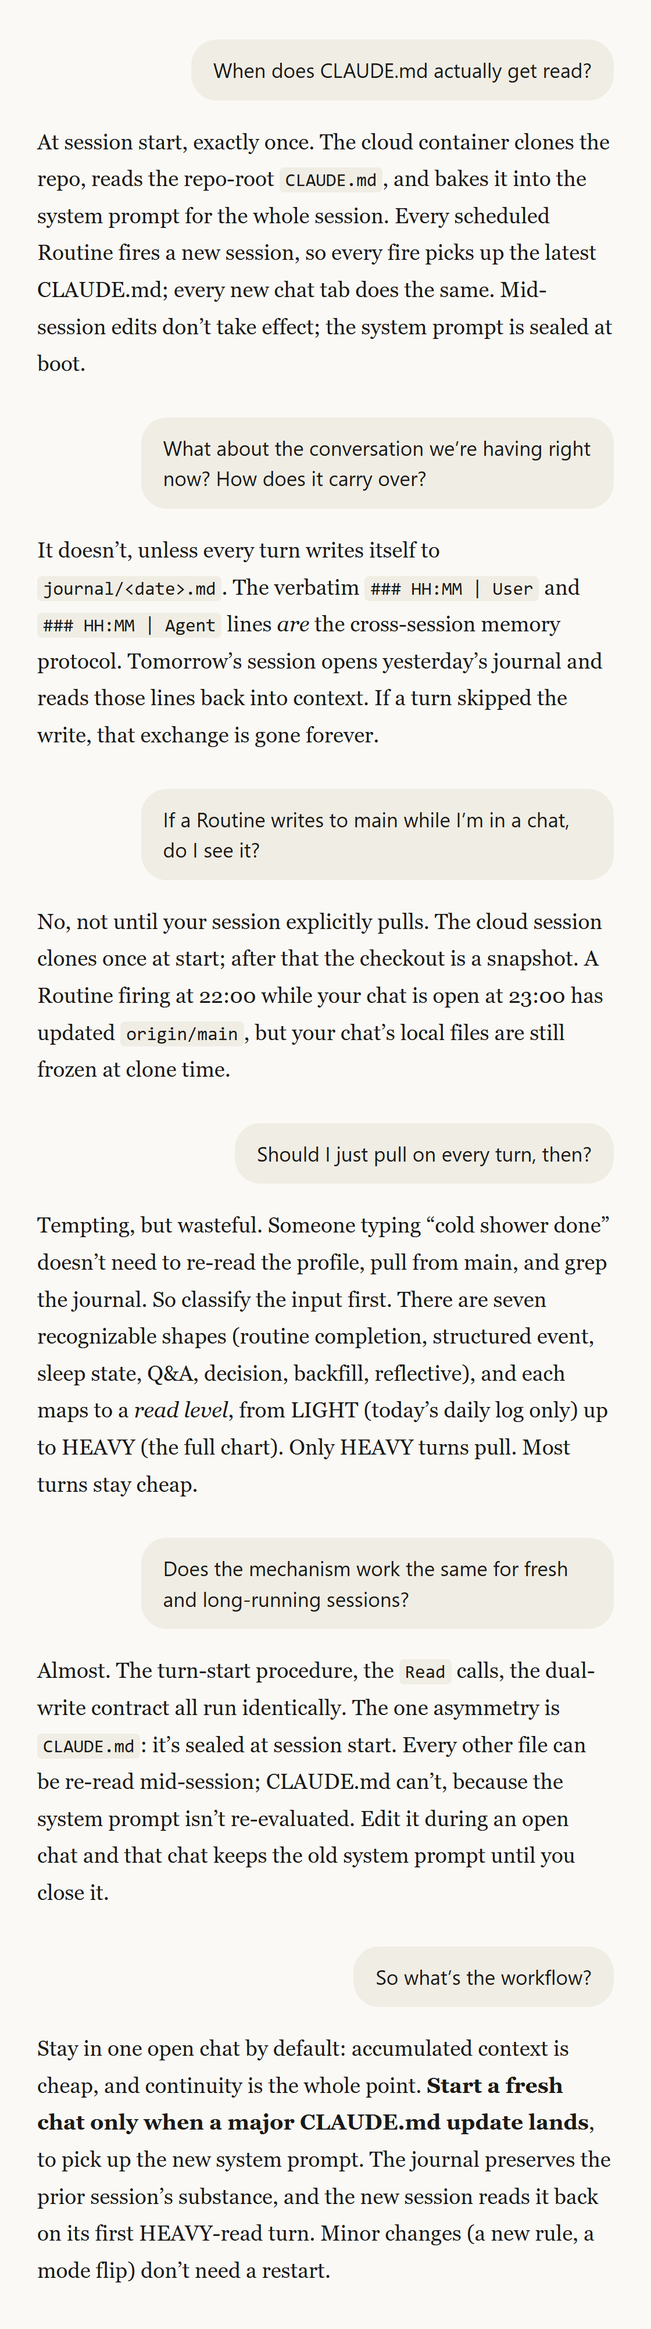
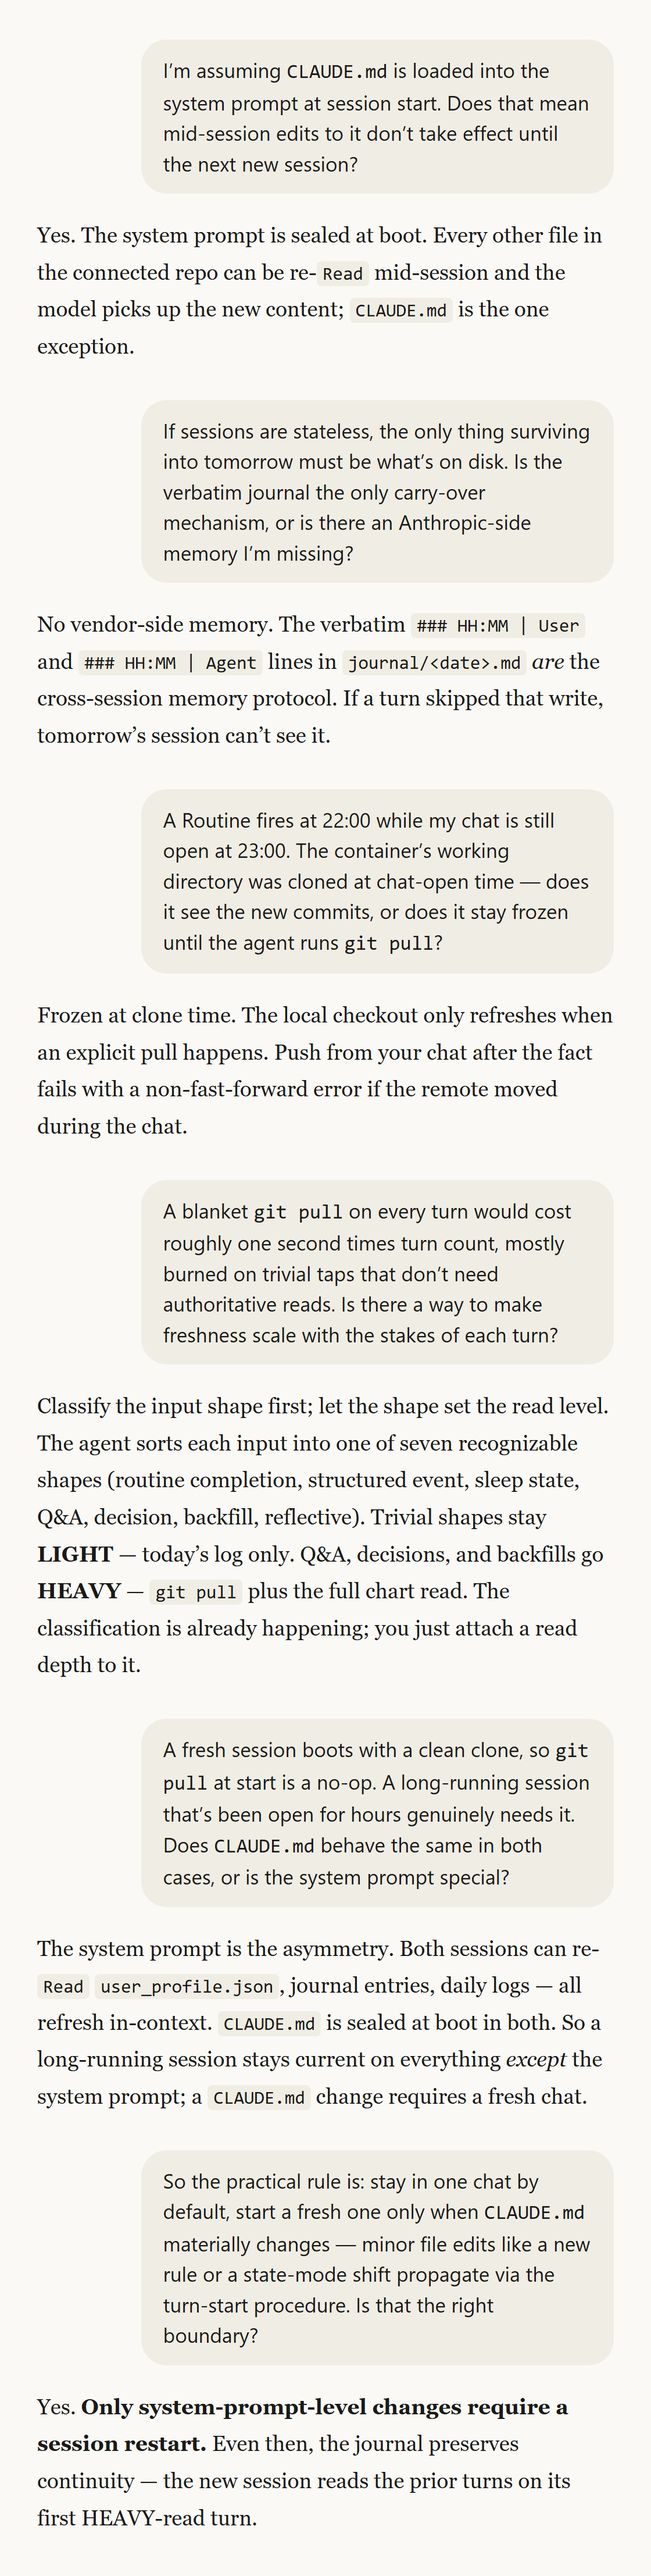
files-are-the-memory: reframe conversation artifact
Each user line now states a technical hypothesis or assumption
(system-prompt seal, clone-time freshness, read-level scaling)
instead of asking for directional opinion. Six turns.

Changed region(s): [[0.0625, 0.0, 0.9375, 0.8425], [0.0625, 0.8425, 0.9062, 0.9985]]

diff --git a/src/content/writings/files-are-the-memory/conversation.source.html b/src/content/writings/files-are-the-memory/conversation.source.html
@@ -5,7 +5,9 @@
 <title>Designing the Memory Architecture — Conversation</title>
 <!-- Built from tools/chat-artifact/template.html. Minimal variant: no header,
      thinking lines, toolbar, or footer — just the turns. claude.ai-faithful:
-     SERIF Claude responses, SANS user bubbles. Render at 2x + crop.cjs sentinel. -->
+     SERIF Claude responses, SANS user bubbles. Render at 2x + crop.cjs sentinel.
+     Reframed 2026-06-09: user lines now state technical hypotheses or specific
+     mechanism assumptions, not directional opinion or simple concept asks. -->
 <style>
   :root {
     --bg:          #faf9f5;
@@ -67,34 +69,34 @@
 <body>
 <div class="card">
 
-  <div class="user-msg"><div class="user-bubble">When does CLAUDE.md actually get read?</div></div>
+  <div class="user-msg"><div class="user-bubble">I&rsquo;m assuming <code>CLAUDE.md</code> is loaded into the system prompt at session start. Does that mean mid-session edits to it don&rsquo;t take effect until the next new session?</div></div>
   <div class="claude-msg">
-    <div class="claude-body"><p>At session start, exactly once. The cloud container clones the repo, reads the repo-root <code>CLAUDE.md</code>, and bakes it into the system prompt for the whole session. Every scheduled Routine fires a new session, so every fire picks up the latest CLAUDE.md; every new chat tab does the same. Mid-session edits don&rsquo;t take effect; the system prompt is sealed at boot.</p></div>
+    <div class="claude-body"><p>Yes. The system prompt is sealed at boot. Every other file in the connected repo can be re-<code>Read</code> mid-session and the model picks up the new content; <code>CLAUDE.md</code> is the one exception.</p></div>
   </div>
 
-  <div class="user-msg"><div class="user-bubble">What about the conversation we&rsquo;re having right now? How does it carry over?</div></div>
+  <div class="user-msg"><div class="user-bubble">If sessions are stateless, the only thing surviving into tomorrow must be what&rsquo;s on disk. Is the verbatim journal the only carry-over mechanism, or is there an Anthropic-side memory I&rsquo;m missing?</div></div>
   <div class="claude-msg">
-    <div class="claude-body"><p>It doesn&rsquo;t, unless every turn writes itself to <code>journal/&lt;date&gt;.md</code>. The verbatim <code>### HH:MM | User</code> and <code>### HH:MM | Agent</code> lines <em>are</em> the cross-session memory protocol. Tomorrow&rsquo;s session opens yesterday&rsquo;s journal and reads those lines back into context. If a turn skipped the write, that exchange is gone forever.</p></div>
+    <div class="claude-body"><p>No vendor-side memory. The verbatim <code>### HH:MM | User</code> and <code>### HH:MM | Agent</code> lines in <code>journal/&lt;date&gt;.md</code> <em>are</em> the cross-session memory protocol. If a turn skipped that write, tomorrow&rsquo;s session can&rsquo;t see it.</p></div>
   </div>
 
-  <div class="user-msg"><div class="user-bubble">If a Routine writes to main while I&rsquo;m in a chat, do I see it?</div></div>
+  <div class="user-msg"><div class="user-bubble">A Routine fires at 22:00 while my chat is still open at 23:00. The container&rsquo;s working directory was cloned at chat-open time &mdash; does it see the new commits, or does it stay frozen until the agent runs <code>git pull</code>?</div></div>
   <div class="claude-msg">
-    <div class="claude-body"><p>No, not until your session explicitly pulls. The cloud session clones once at start; after that the checkout is a snapshot. A Routine firing at 22:00 while your chat is open at 23:00 has updated <code>origin/main</code>, but your chat&rsquo;s local files are still frozen at clone time.</p></div>
+    <div class="claude-body"><p>Frozen at clone time. The local checkout only refreshes when an explicit pull happens. Push from your chat after the fact fails with a non-fast-forward error if the remote moved during the chat.</p></div>
   </div>
 
-  <div class="user-msg"><div class="user-bubble">Should I just pull on every turn, then?</div></div>
+  <div class="user-msg"><div class="user-bubble">A blanket <code>git pull</code> on every turn would cost roughly one second times turn count, mostly burned on trivial taps that don&rsquo;t need authoritative reads. Is there a way to make freshness scale with the stakes of each turn?</div></div>
   <div class="claude-msg">
-    <div class="claude-body"><p>Tempting, but wasteful. Someone typing &ldquo;cold shower done&rdquo; doesn&rsquo;t need to re-read the profile, pull from main, and grep the journal. So classify the input first. There are seven recognizable shapes (routine completion, structured event, sleep state, Q&amp;A, decision, backfill, reflective), and each maps to a <em>read level</em>, from LIGHT (today&rsquo;s daily log only) up to HEAVY (the full chart). Only HEAVY turns pull. Most turns stay cheap.</p></div>
+    <div class="claude-body"><p>Classify the input shape first; let the shape set the read level. The agent sorts each input into one of seven recognizable shapes (routine completion, structured event, sleep state, Q&amp;A, decision, backfill, reflective). Trivial shapes stay <strong>LIGHT</strong> &mdash; today&rsquo;s log only. Q&amp;A, decisions, and backfills go <strong>HEAVY</strong> &mdash; <code>git pull</code> plus the full chart read. The classification is already happening; you just attach a read depth to it.</p></div>
   </div>
 
-  <div class="user-msg"><div class="user-bubble">Does the mechanism work the same for fresh and long-running sessions?</div></div>
+  <div class="user-msg"><div class="user-bubble">A fresh session boots with a clean clone, so <code>git pull</code> at start is a no-op. A long-running session that&rsquo;s been open for hours genuinely needs it. Does <code>CLAUDE.md</code> behave the same in both cases, or is the system prompt special?</div></div>
   <div class="claude-msg">
-    <div class="claude-body"><p>Almost. The turn-start procedure, the <code>Read</code> calls, the dual-write contract all run identically. The one asymmetry is <code>CLAUDE.md</code>: it&rsquo;s sealed at session start. Every other file can be re-read mid-session; CLAUDE.md can&rsquo;t, because the system prompt isn&rsquo;t re-evaluated. Edit it during an open chat and that chat keeps the old system prompt until you close it.</p></div>
+    <div class="claude-body"><p>The system prompt is the asymmetry. Both sessions can re-<code>Read</code> <code>user_profile.json</code>, journal entries, daily logs &mdash; all refresh in-context. <code>CLAUDE.md</code> is sealed at boot in both. So a long-running session stays current on everything <em>except</em> the system prompt; a <code>CLAUDE.md</code> change requires a fresh chat.</p></div>
   </div>
 
-  <div class="user-msg"><div class="user-bubble">So what&rsquo;s the workflow?</div></div>
+  <div class="user-msg"><div class="user-bubble">So the practical rule is: stay in one chat by default, start a fresh one only when <code>CLAUDE.md</code> materially changes &mdash; minor file edits like a new rule or a state-mode shift propagate via the turn-start procedure. Is that the right boundary?</div></div>
   <div class="claude-msg">
-    <div class="claude-body"><p>Stay in one open chat by default: accumulated context is cheap, and continuity is the whole point. <strong>Start a fresh chat only when a major CLAUDE.md update lands</strong>, to pick up the new system prompt. The journal preserves the prior session&rsquo;s substance, and the new session reads it back on its first HEAVY-read turn. Minor changes (a new rule, a mode flip) don&rsquo;t need a restart.</p></div>
+    <div class="claude-body"><p>Yes. <strong>Only system-prompt-level changes require a session restart.</strong> Even then, the journal preserves continuity &mdash; the new session reads the prior turns on its first HEAVY-read turn.</p></div>
   </div>
 
 </div>
